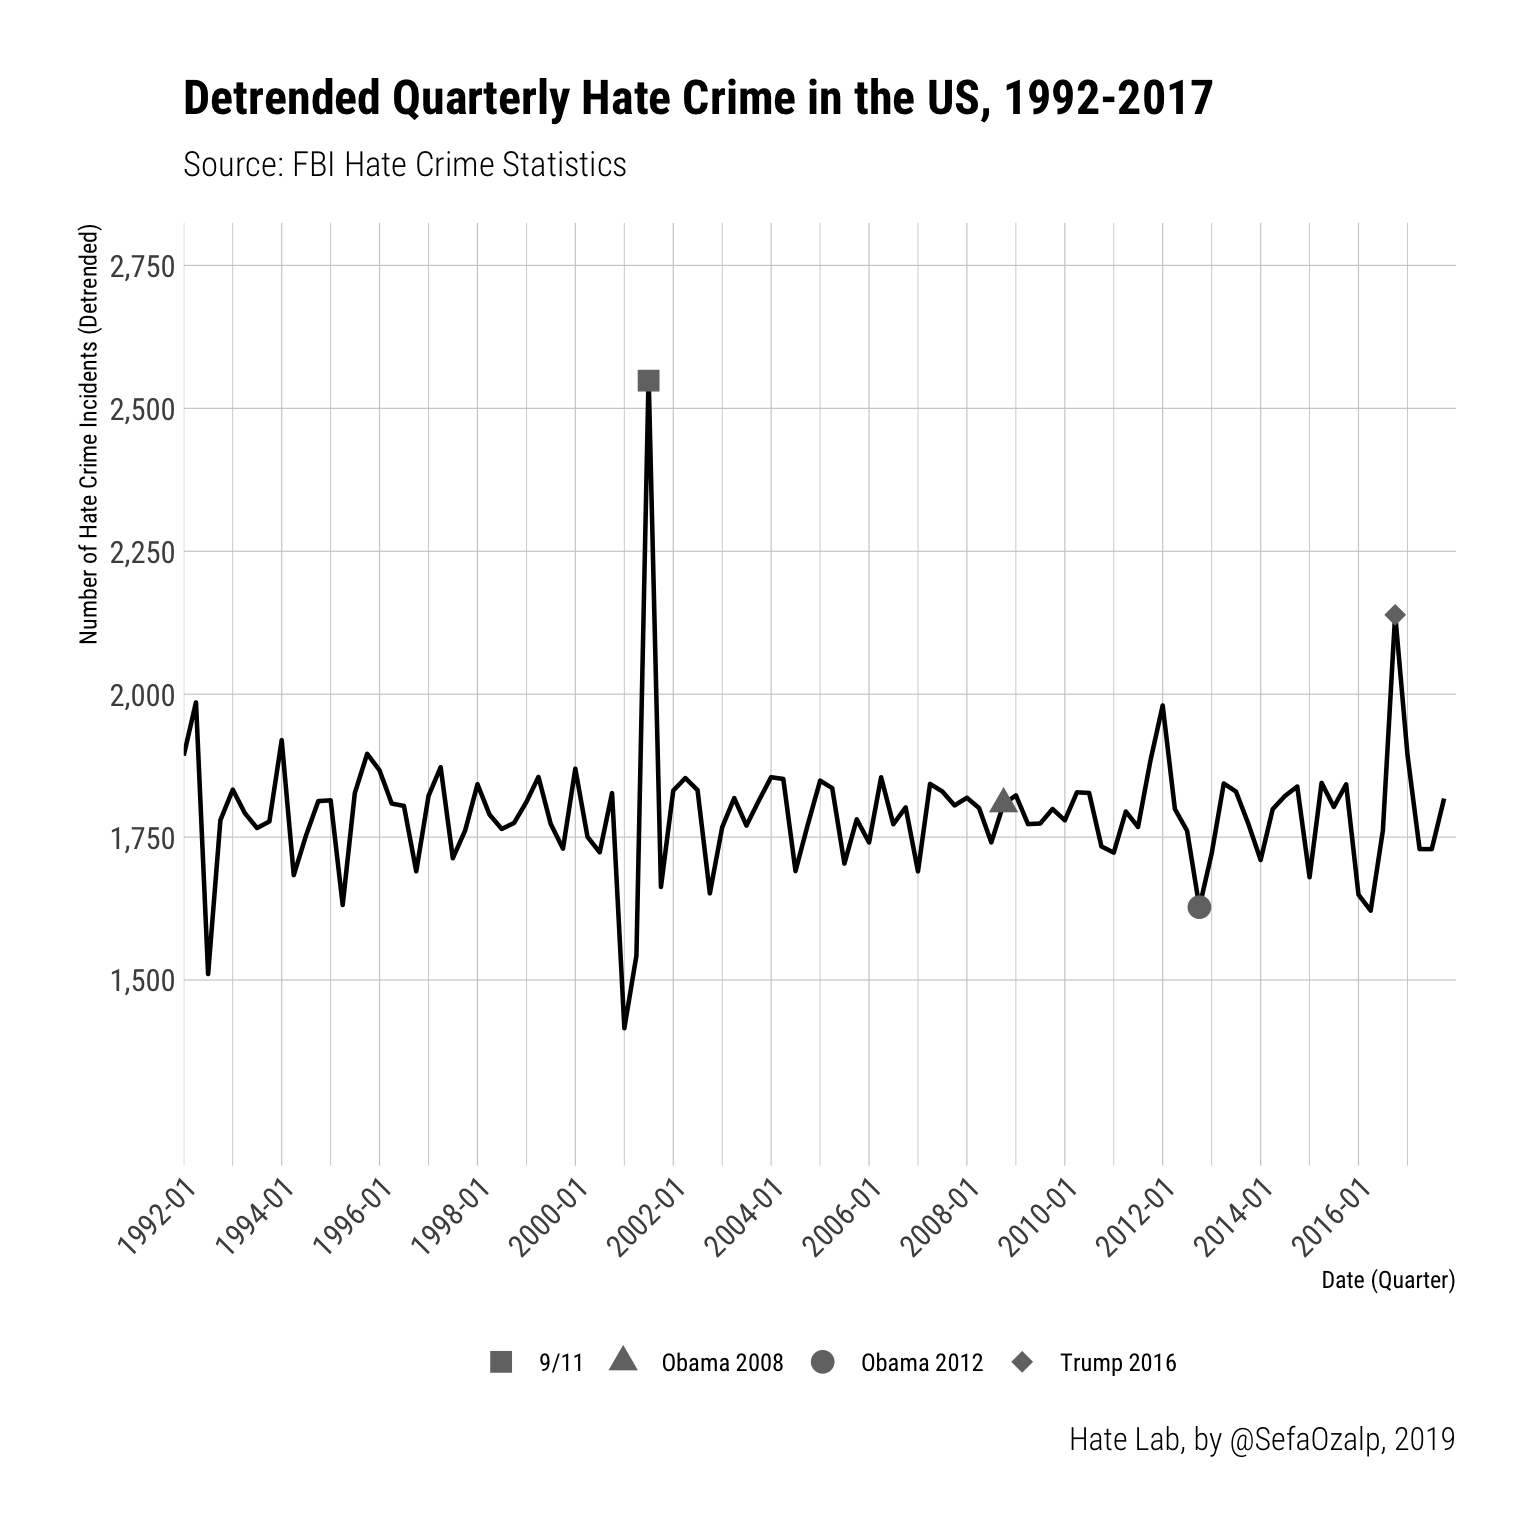
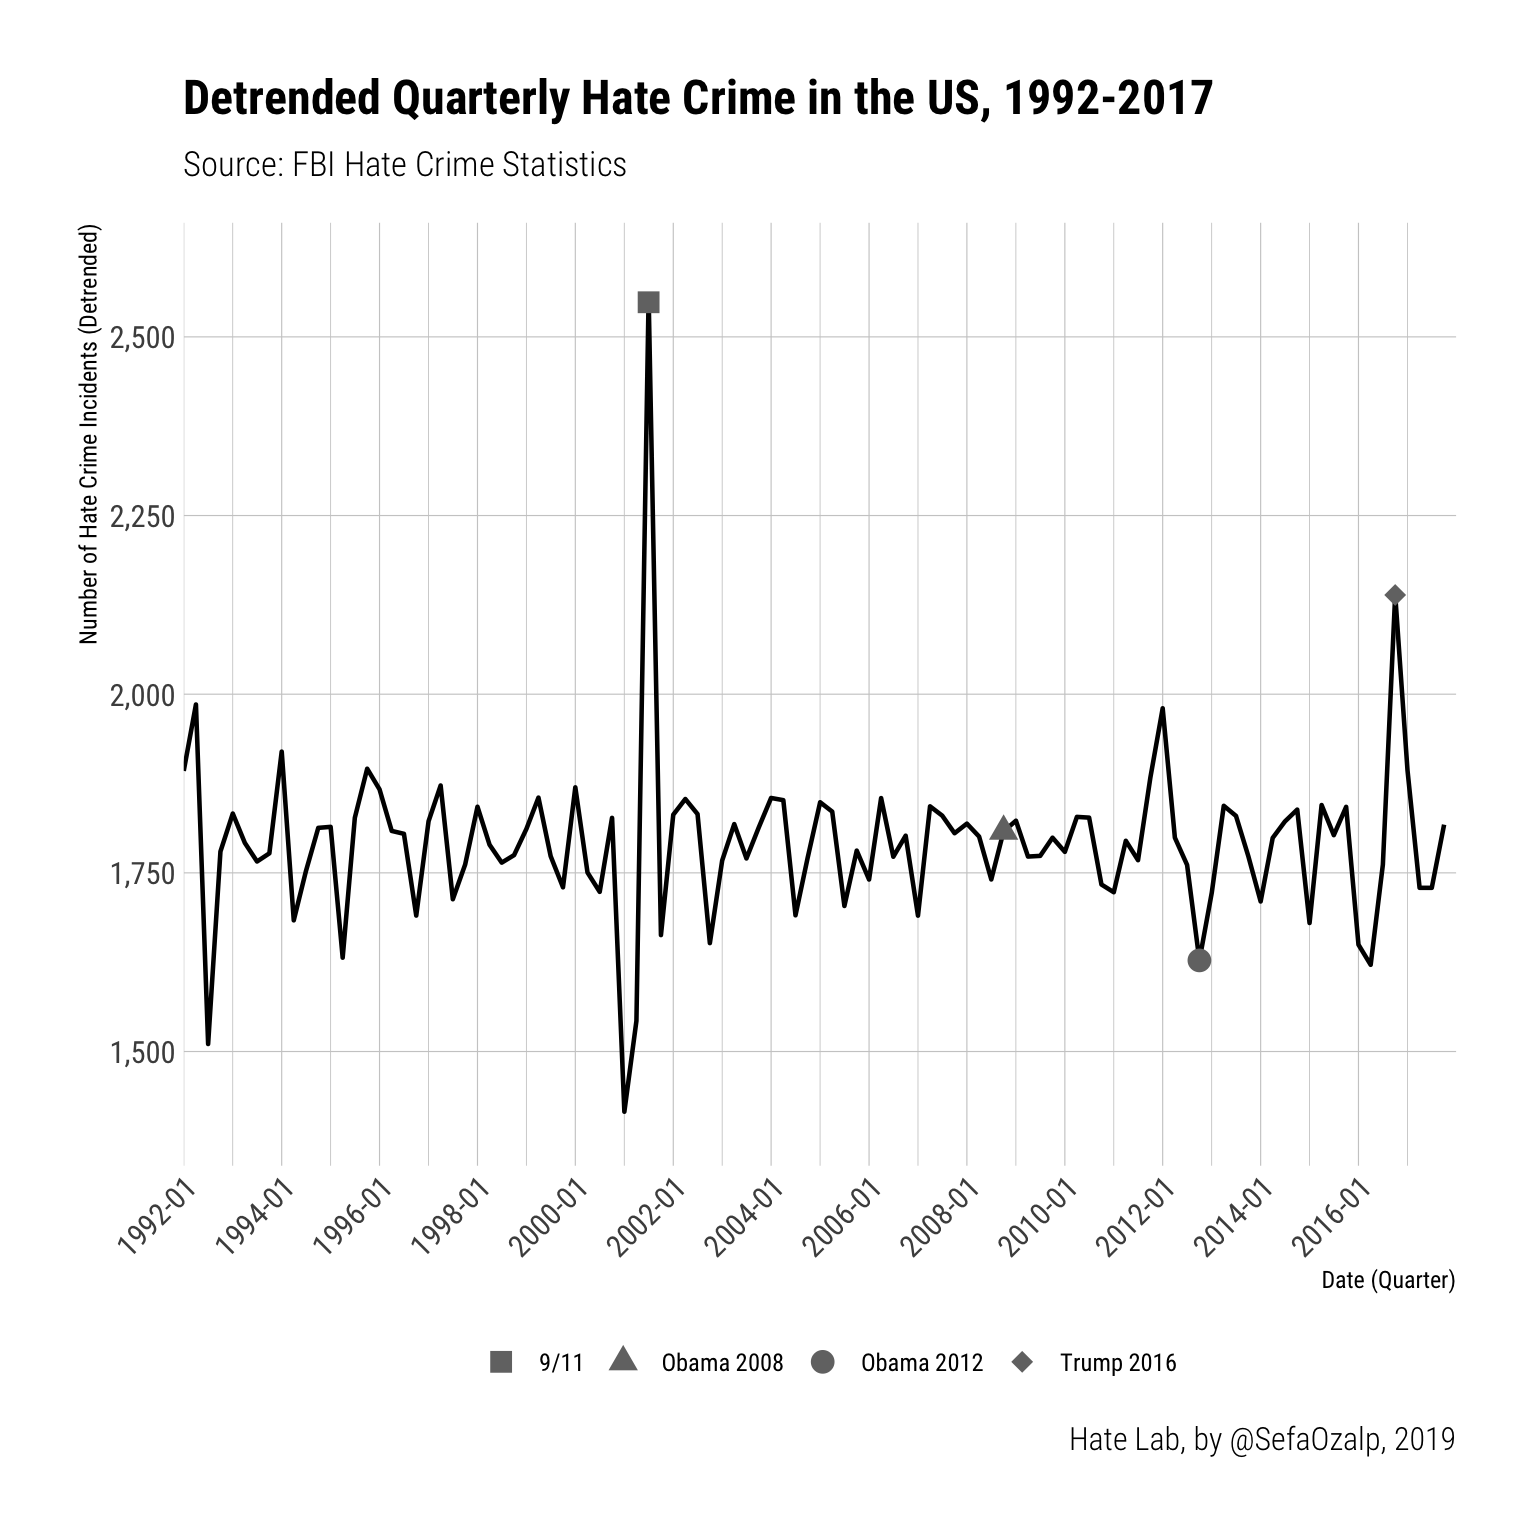
Build site.

diff --git a/docs/fbi_hate_crimes_quarterly.html b/docs/fbi_hate_crimes_quarterly.html
@@ -489,10 +489,10 @@ This reproducible <a href="http://rmarkdown.rstudio.com">R Markdown</a> analysis
 <div class="panel panel-default">
 <div class="panel-heading">
 <p class="panel-title">
-<a data-toggle="collapse" data-parent="#workflowr-checks" href="#strongRepositoryversionstrongahrefhttpsgithubcomsefabeyfbihatecrimesdataviztree5fdefcde0fefa2f7e71d6e85e34d14fbb1b2253ctargetblank5fdefcda"> <span class="glyphicon glyphicon-ok text-success" aria-hidden="true"></span> <strong>Repository version:</strong> <a href="https://github.com/sefabey/fbi_hate_crimes_data_viz/tree/5fdefcde0fefa2f7e71d6e85e34d14fbb1b2253c" target="_blank">5fdefcd</a> </a>
+<a data-toggle="collapse" data-parent="#workflowr-checks" href="#strongRepositoryversionstrongahrefhttpsgithubcomsefabeyfbihatecrimesdataviztree38e517f20d8ae7c587e9320bb89891bf7da69055targetblank38e517fa"> <span class="glyphicon glyphicon-ok text-success" aria-hidden="true"></span> <strong>Repository version:</strong> <a href="https://github.com/sefabey/fbi_hate_crimes_data_viz/tree/38e517f20d8ae7c587e9320bb89891bf7da69055" target="_blank">38e517f</a> </a>
 </p>
 </div>
[2 lines of base64/hex data omitted]
 <div class="panel-body">
 <p>
 Great! You are using Git for version control. Tracking code development and connecting the code version to the results is critical for reproducibility. The version displayed above was the version of the Git repository at the time these results were generated. <br><br> Note that you need to be careful to ensure that all relevant files for the analysis have been committed to Git prior to generating the results (you can use <code>wflow_publish</code> or <code>wflow_git_commit</code>). workflowr only checks the R Markdown file, but you know if there are other scripts or data files that it depends on. Below is the status of the Git repository when the results were generated:
@@ -580,6 +580,40 @@ Message
 </tr>
 </thead>
 <tbody>
+<tr>
+<td>
+rmd
+</td>
+<td>
+<a href="https://github.com/sefabey/fbi_hate_crimes_data_viz/blob/38e517f20d8ae7c587e9320bb89891bf7da69055/analysis/fbi_hate_crimes_quarterly.rmd" target="_blank">38e517f</a>
+</td>
+<td>
+Sefa Ozalp
+</td>
+<td>
+2019-12-12
+</td>
+<td>
+wflow_publish(c(“analysis/fbi_hate_crimes_1992.rmd”,
+</td>
+</tr>
+<tr>
+<td>
+html
+</td>
+<td>
+<a href="https://rawcdn.githack.com/sefabey/fbi_hate_crimes_data_viz/c9ae9991613f394e49f27693425e6f01abeaea02/docs/fbi_hate_crimes_quarterly.html" target="_blank">c9ae999</a>
+</td>
+<td>
+Sefa Ozalp
+</td>
+<td>
+2019-12-12
+</td>
+<td>
+Build site.
+</td>
+</tr>
 <tr>
 <td>
 rmd
@@ -1063,7 +1097,7 @@ edwards_processed</code></pre>
 <pre class="r"><code>edwards_processed %&gt;%
   ggplot(aes(x=quarter_date, y=hatedetrend))+
   geom_line(size=0.8)+
-  scale_y_continuous(labels = comma, limits = c(1250, 2750), breaks = seq(1500,3500,250), minor_breaks = NULL)+
+  scale_y_continuous(labels = comma, limits = c(1400, 2600), breaks = seq(1500,3500,250), minor_breaks = NULL)+
   scale_x_date(breaks = seq.Date(dmy(&quot;01-01-1992&quot;), dmy(&quot;31-12-2017&quot;), by= &quot;2 year&quot;), 
                date_labels = &quot;%Y-%m&quot;, 
                limits = c(lubridate::dmy(&quot;01-01-1992&quot;), lubridate::dmy(&quot;31-12-2017&quot;)),
@@ -1083,6 +1117,43 @@ edwards_processed</code></pre>
                      name = NULL)+
   NULL</code></pre>
 <p><img src="figure/fbi_hate_crimes_quarterly.rmd/Rushin%20and%20Edwards%20Plot-1.png" width="768" style="display: block; margin: auto;" /></p>
+<p>
+<button type="button" class="btn btn-default btn-xs btn-workflowr btn-workflowr-fig" data-toggle="collapse" data-target="#fig-no-spaces-Rushin-and-Edwards-Plot-1">
+Past versions of “Rushin and Edwards Plot-1.png”
+</button>
+</p>
+<div id="fig-no-spaces-Rushin-and-Edwards-Plot-1" class="collapse">
+<div class="table-responsive">
+<table class="table table-condensed table-hover">
+<thead>
+<tr>
+<th>
+Version
+</th>
+<th>
+Author
+</th>
+<th>
+Date
+</th>
+</tr>
+</thead>
+<tbody>
+<tr>
+<td>
+<a href="https://github.com/sefabey/fbi_hate_crimes_data_viz/blob/c9ae9991613f394e49f27693425e6f01abeaea02/docs/figure/fbi_hate_crimes_quarterly.rmd/Rushin and Edwards Plot-1.png" target="_blank">c9ae999</a>
+</td>
+<td>
+Sefa Ozalp
+</td>
+<td>
+2019-12-12
+</td>
+</tr>
+</tbody>
+</table>
+</div>
+</div>
 </div>
 </div>
 <div id="reproduce-the-same-plot-using-fbi-data" class="section level1">
@@ -1311,6 +1382,17 @@ Date
 </tr>
 </thead>
 <tbody>
+<tr>
+<td>
+<a href="https://github.com/sefabey/fbi_hate_crimes_data_viz/blob/c9ae9991613f394e49f27693425e6f01abeaea02/docs/figure/fbi_hate_crimes_quarterly.rmd/unnamed-chunk-8-1.png" target="_blank">c9ae999</a>
+</td>
+<td>
+Sefa Ozalp
+</td>
+<td>
+2019-12-12
+</td>
+</tr>
 <tr>
 <td>
 <a href="https://github.com/sefabey/fbi_hate_crimes_data_viz/blob/7020e8192cbf9e1af9818faca8eeac602c904ebf/docs/figure/fbi_hate_crimes_quarterly.rmd/unnamed-chunk-8-1.png" target="_blank">7020e81</a>

diff --git a/docs/fbi_hate_crimes_1992.html b/docs/fbi_hate_crimes_1992.html
@@ -489,10 +489,10 @@ This reproducible <a href="http://rmarkdown.rstudio.com">R Markdown</a> analysis
 <div class="panel panel-default">
 <div class="panel-heading">
 <p class="panel-title">
-<a data-toggle="collapse" data-parent="#workflowr-checks" href="#strongRepositoryversionstrongahrefhttpsgithubcomsefabeyfbihatecrimesdataviztree5fdefcde0fefa2f7e71d6e85e34d14fbb1b2253ctargetblank5fdefcda"> <span class="glyphicon glyphicon-ok text-success" aria-hidden="true"></span> <strong>Repository version:</strong> <a href="https://github.com/sefabey/fbi_hate_crimes_data_viz/tree/5fdefcde0fefa2f7e71d6e85e34d14fbb1b2253c" target="_blank">5fdefcd</a> </a>
+<a data-toggle="collapse" data-parent="#workflowr-checks" href="#strongRepositoryversionstrongahrefhttpsgithubcomsefabeyfbihatecrimesdataviztree38e517f20d8ae7c587e9320bb89891bf7da69055targetblank38e517fa"> <span class="glyphicon glyphicon-ok text-success" aria-hidden="true"></span> <strong>Repository version:</strong> <a href="https://github.com/sefabey/fbi_hate_crimes_data_viz/tree/38e517f20d8ae7c587e9320bb89891bf7da69055" target="_blank">38e517f</a> </a>
 </p>
 </div>
[2 lines of base64/hex data omitted]
 <div class="panel-body">
 <p>
 Great! You are using Git for version control. Tracking code development and connecting the code version to the results is critical for reproducibility. The version displayed above was the version of the Git repository at the time these results were generated. <br><br> Note that you need to be careful to ensure that all relevant files for the analysis have been committed to Git prior to generating the results (you can use <code>wflow_publish</code> or <code>wflow_git_commit</code>). workflowr only checks the R Markdown file, but you know if there are other scripts or data files that it depends on. Below is the status of the Git repository when the results were generated:
@@ -580,6 +580,23 @@ Message
 </tr>
 </thead>
 <tbody>
+<tr>
+<td>
+html
+</td>
+<td>
+<a href="https://rawcdn.githack.com/sefabey/fbi_hate_crimes_data_viz/c9ae9991613f394e49f27693425e6f01abeaea02/docs/fbi_hate_crimes_1992.html" target="_blank">c9ae999</a>
+</td>
+<td>
+Sefa Ozalp
+</td>
+<td>
+2019-12-12
+</td>
+<td>
+Build site.
+</td>
+</tr>
 <tr>
 <td>
 rmd
@@ -1032,6 +1049,17 @@ Date
 </tr>
 </thead>
 <tbody>
+<tr>
+<td>
+<a href="https://github.com/sefabey/fbi_hate_crimes_data_viz/blob/c9ae9991613f394e49f27693425e6f01abeaea02/docs/figure/fbi_hate_crimes_1992.rmd/king&sutton plot-1.png" target="_blank">c9ae999</a>
+</td>
+<td>
+Sefa Ozalp
+</td>
+<td>
+2019-12-12
+</td>
+</tr>
 <tr>
 <td>
 <a href="https://github.com/sefabey/fbi_hate_crimes_data_viz/blob/d2b4f7857d522944a8f049b826fda2e6085725e4/docs/figure/fbi_hate_crimes_1992.rmd/king&sutton plot-1.png" target="_blank">d2b4f78</a>
